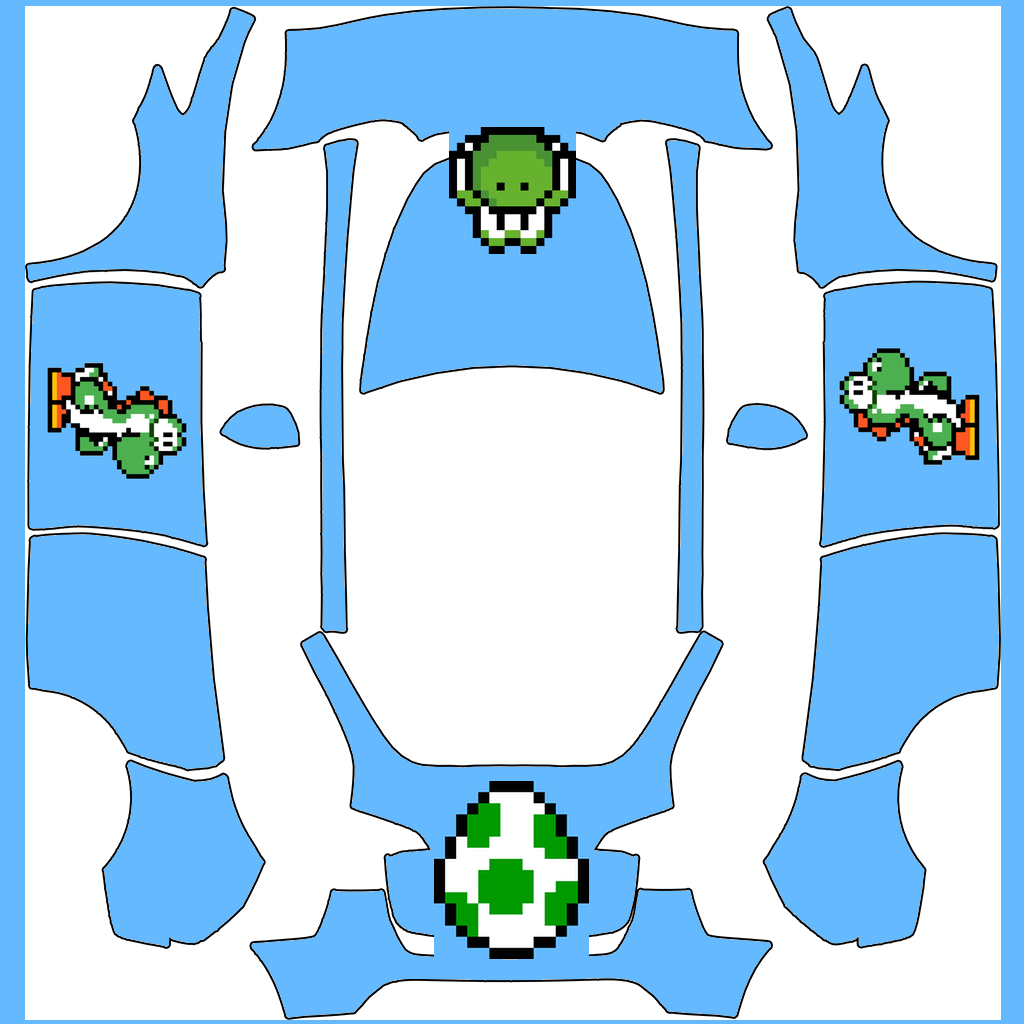
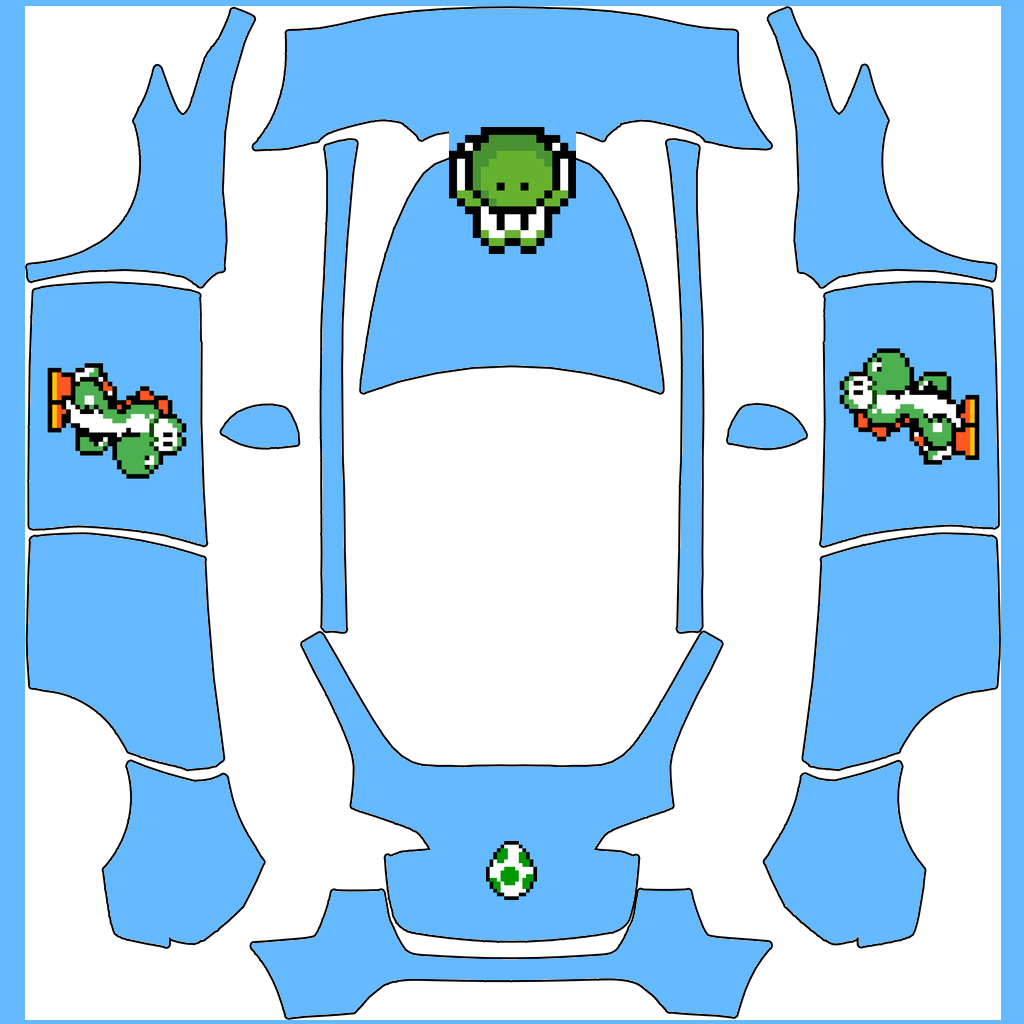
Scale trunk egg down 2/3 (to 0.5x scale)
Reduced egg scale from 1.5x to 0.5x to make it more subtle on the trunk.

Changed region(s): [[0.4062, 0.75, 0.5938, 0.9375]]

diff --git a/place_yoshi.py b/place_yoshi.py
@@ -24,7 +24,7 @@ FRUNK_FACE     = "raw/sky_yoshi_face_180.png"  # upside-down
 # detected from the template's connected white regions
 LEFT_DOOR  = dict(x0=30,  y0=284, x1=205, y1=544)
 RIGHT_DOOR = dict(x0=821, y0=283, x1=997, y1=544)
-TRUNK      = dict(x0=352, y0=800, x1=671, y1=940, scale=1.5)  # 1.5x bigger
+TRUNK      = dict(x0=352, y0=800, x1=671, y1=940, scale=0.5)  # 2/3 smaller
 FRUNK      = dict(x0=409, y0=165, x1=615, y1=215, scale=3.0)  # fill most of panel
 
 # Scale Yoshi to this fraction of the door's smaller dimension
